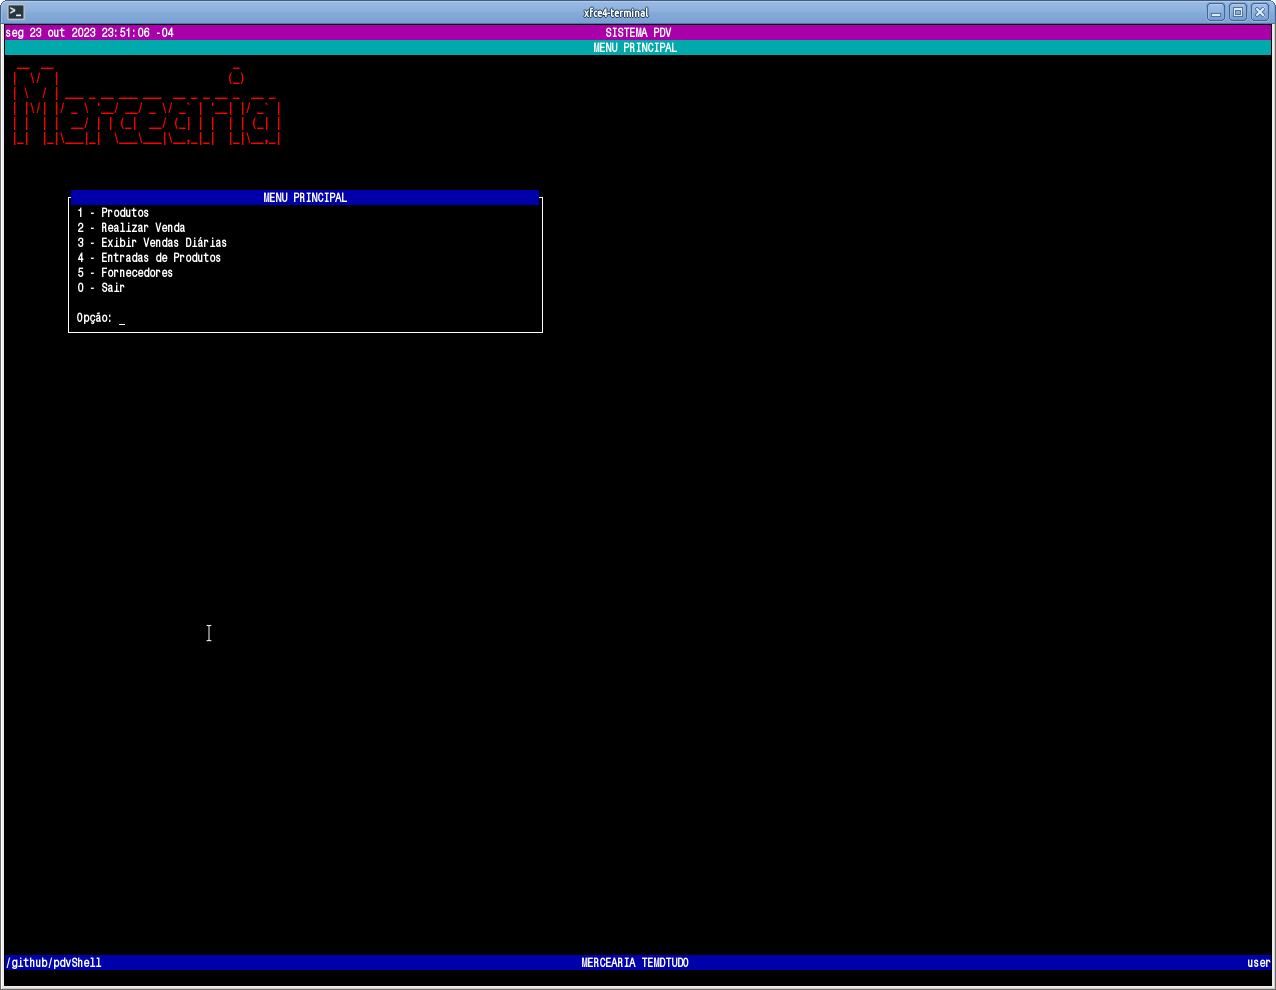
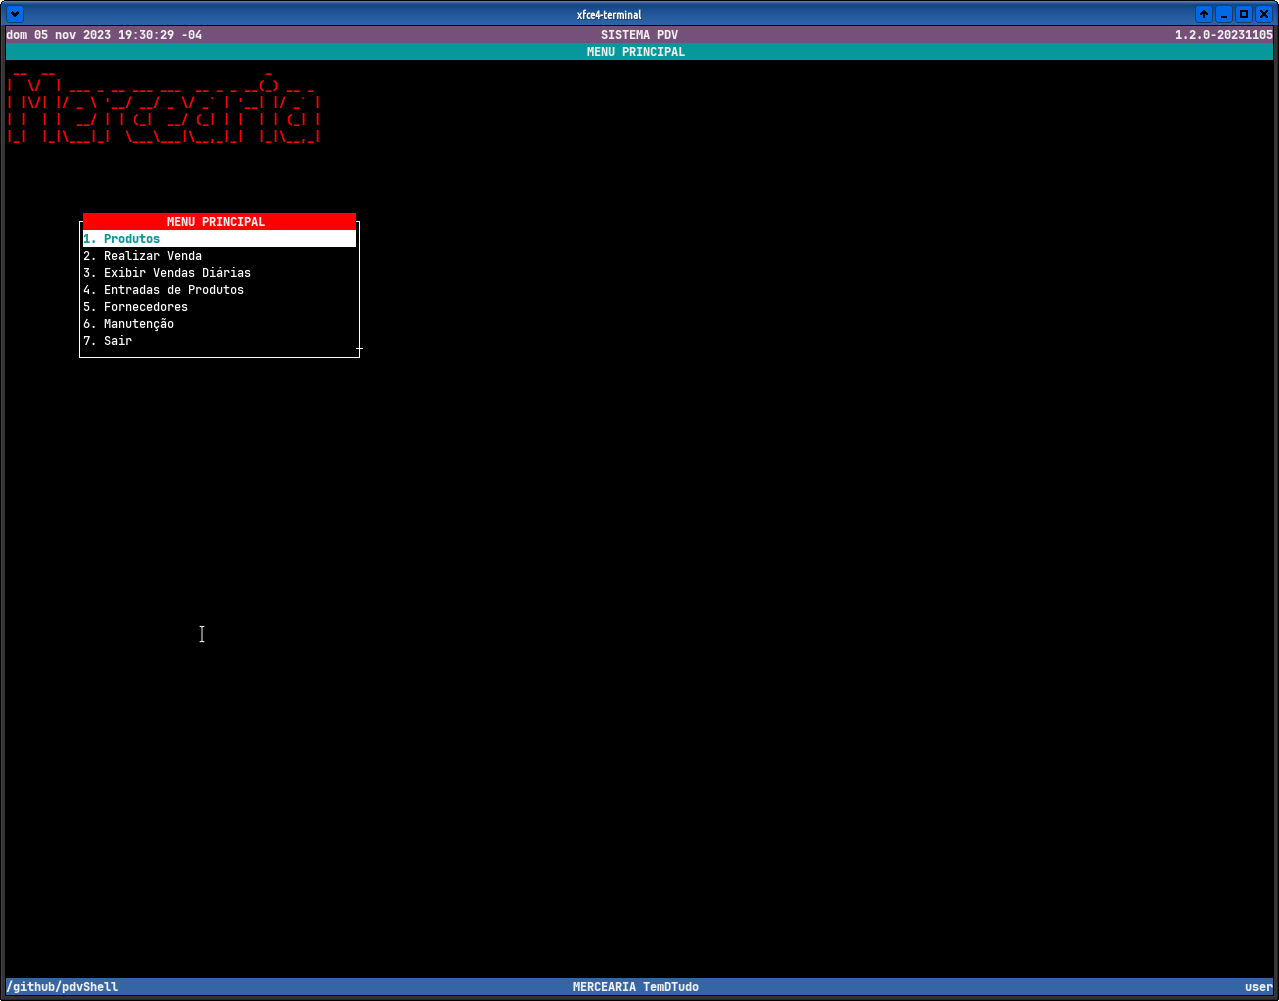
dom 05 nov 2023 19:43:21 -04 Vilmar Catafesta (vcatafesta@gmail.com)

Changed region(s): [[0.0, 0.0, 1.0, 1.0]]

diff --git a/README.md b/README.md
@@ -5,8 +5,7 @@ PDVSHELL, simples frente de caixa para  mercearias pequenas feito em shell scrip
 	- Cadastrar Produtos
     - Alterar Produtos
     - Remover Produtos
-    - Pesquisar Produtos/Inventário
-    - Atualizar Estoque (conciliação)
+    - Pesquisar Produtos
     - Listagem Produtos Vendidos
     - Listagem Entradas de Produtos
     - Listagem Produtos abaixo estoque mínimo
@@ -22,22 +21,36 @@ PDVSHELL, simples frente de caixa para  mercearias pequenas feito em shell scrip
 * Manutenção
 	- Popular databases para testes
 	- Zerar/Limpar databases
-
+    - Atualizar Estoque (conciliação)
 
 ## Futuras Features
-* Adicionar marca/fornecedor do produto
-* Listagem de produtos por marca/fornecedor
+*
 
+## Telas
+* MENU PRINCIPAL
 <img alt="mercearia-main-menu" src="assets/mercearia-main-menu.png" width="600" />
+* MENU PRODUTOS
 <img alt="mercearia-produtos" src="assets/mercearia-produtos.png" width="600" />
+* CADASTRAR PRODUTOS
 <img alt="mercearia-produtos-cadastro" src="assets/mercearia-produtos-cadastro.png" width="600" />
-<img alt="mercearia-produtos-compra" src="assets/mercearia-produtos-compra.png" width="600" />
+* REMOVER PRODUTOS
+<img alt="mercearia-produtos-exclusao" src="assets/mercearia-produtos-exclusao.png" width="600" />
+* PESQUISAR PRODUTOS
 <img alt="mercearia-produtos-pesquisar" src="assets/mercearia-produtos-pesquisar.png" width="600" />
+* LISTAGEM PRODUTOS VENDIDOS
 <img alt="mercearia-produtos-produtos-vendidos" src="assets/mercearia-produtos-vendidos.png" width="600" />
+* LISTAGEM ENTRADAS DE PRODUTOS
+<img alt="mercearia-produtos-compra" src="assets/mercearia-produtos-compra.png" width="600" />
 <img alt="mercearia-produtos-produtos-vendas" src="assets/mercearia-produtos-vendas.png" width="600" />
+* LISTAGEM PRODUTOS ABAIXO ESTOQUE MÍNIMO
 <img alt="mercearia-produtos-abaixo-do-minimo" src="assets/mercearia-produtos-abaixo-do-minimo.png" width="600" />
+* LISTAGEM PRODUTOS FORA DE VALIDADE
 <img alt="mercearia-produtos-fora-de-validade" src="assets/mercearia-produtos-fora-de-validade.png" width="600" />
+* MENU FORNECEDOR
 <img alt="mercearia-menu-fornecedores" src="assets/mercearia-menu-fornecedores.png" width="600" />
+* CADASTRAR FORNECEDOR
 <img alt="mercearia-fornecedor-cadastro.png" src="assets/mercearia-fornecedor-cadastro.png" width="600" />
+* PESQUISAR FORNECEDOR
 <img alt="mercearia-fornecedor-listagem.png" src="assets/mercearia-fornecedor-listagem.png" width="600" />
-
+* EXIBIR VENDAS DIÁRIAS
+<img alt="mercearia-exibir-vendas-diarias.png" src="assets/mercearia-exibir-vendas-diarias.png" width="600" />
